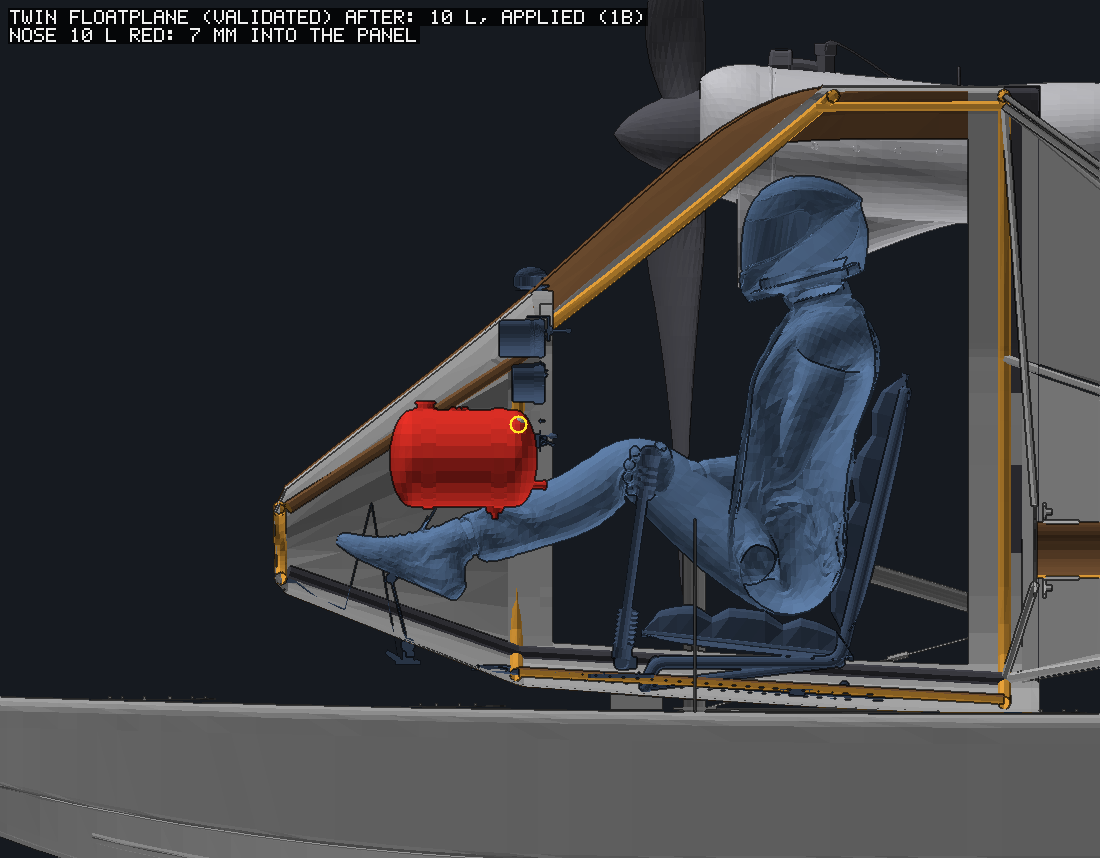
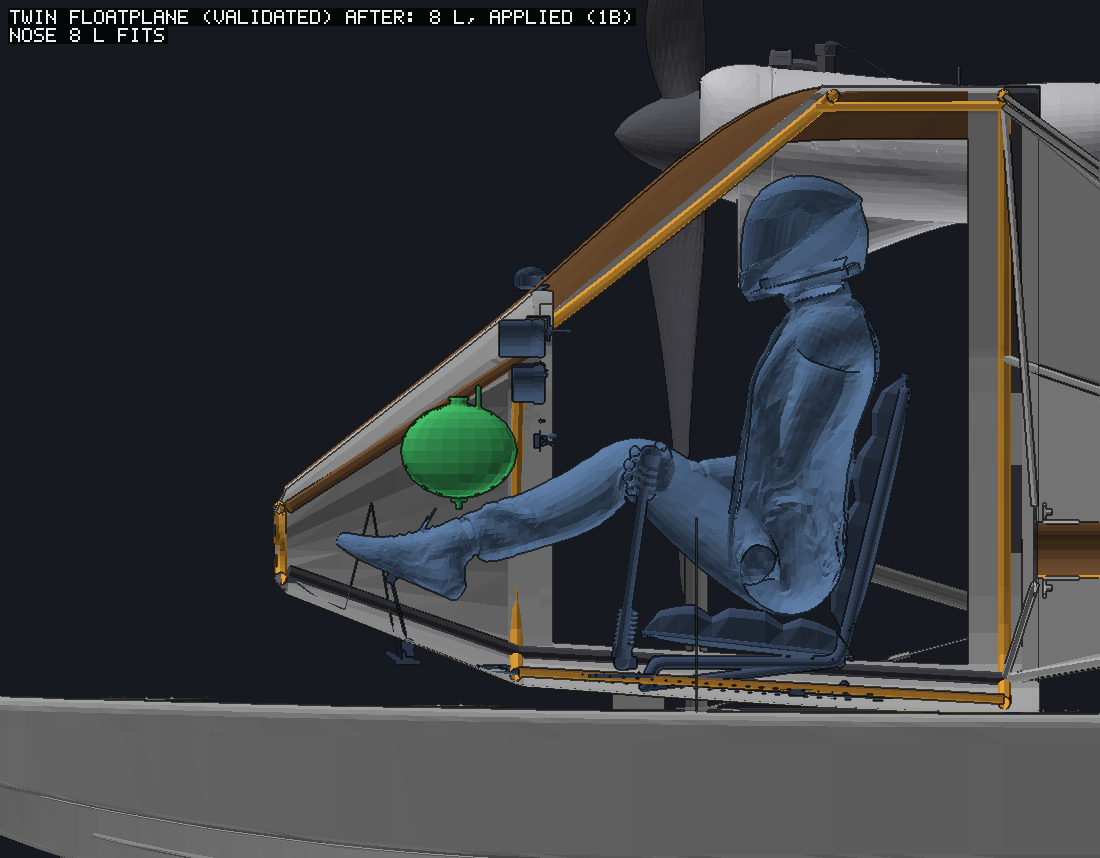
TANK-FIT 11: the twin floatplane's header refit on train 1B is 8 L (the knee fix moved the legs: the 10 L stood 7 mm into the panel there) - the same cylinder at 0.75, turned as saved, 3 cm forward, 5 mm clear
Claude-Session: https://claude.ai/code/session_01RorUqFnYH5e3xLHgf9Znqk

diff --git a/flyDiy/tools/_load_build.js b/flyDiy/tools/_load_build.js
@@ -44,11 +44,12 @@ const VALIDATED = {
     patch: j => { j.spec.gear.type = 'floats'; j.spec.cage = Object.assign({}, j.spec.cage, { gearFloats: 1 });
       // TANK-FIT case D (the user via A0, 3 Nov: the 10 L refit goes in once FLOATS' taxi is fixed - it was the gate's
       // 45 s window, not the sim: tools/_floats_check.js): the header tank stood 25 mm aft of the panel's plane, into a
-      // frame tube (15 mm) and the panel (20 mm); no auto shape fits this open pod (the legs reach the nose). The same
-      // cylinder at 0.8 of its size, 2 cm forward, upright as drawn: 10 L where 19 L could not be (5 mm clear)
+      // frame tube (15 mm) and the panel (20 mm); no auto shape fits this open pod (the legs reach the nose). The largest
+      // that clears on train 1B (the knee fix moved the legs: the 10 L found on PH1A stood 7 mm into the panel there):
+      // the same cylinder at 0.75 of its size, turned as saved, 3 cm forward - 8 L where 19 L could not be (5 mm clear)
       if (j.spec.energy && Array.isArray(j.spec.energy.vessels) && j.spec.energy.vessels[0] && j.spec.energy.vessels[0].bay === 'nose')
-        j.spec.energy.vessels[0] = Object.assign({}, j.spec.energy.vessels[0], { along: -0.094, lv: 0.55, rot: 0, form: 'cyl',
-          dims: { L: 0.304, W: 0.2472, H: 0.2 }, capacity: 10 });
+        j.spec.energy.vessels[0] = Object.assign({}, j.spec.energy.vessels[0], { along: -0.104, lv: 0.6, rot: 90, form: 'cyl',
+          dims: { L: 0.285, W: 0.2318, H: 0.1875 }, capacity: 8 });
       return j; } },
 };
 

diff --git a/flyDiy/reports/evidence/TANK-FIT/STATUS.md b/flyDiy/reports/evidence/TANK-FIT/STATUS.md
@@ -189,7 +189,9 @@ C172 has no nose tank.
 * the saves' nose tanks with no station and no box of their own now take the auto shape by default
   (`window.TANK_NOSE_AUTO_ALL = false` = the old shaping, the A/B);
 * the floatplane card's STOCK_TANKS entry is `fit: 'auto'` (hand-edited: tank_refit_apply.js generated the table);
-* the validated twin floatplane's header tank: **applied, 19 → 10 L** (round 3, A0's T1, the user's answer of 3 Nov
+* the validated twin floatplane's header tank: **applied, 19 → 8 L on train 1B** (10 L on PH1A / F4; on 1B the knee fix
+  moved the legs and the 10 L stood 7 mm into the panel - re-searched: the same cylinder at 0.75 of its size, turned
+  as saved, 3 cm forward, 5 mm clear) (round 3, A0's T1, the user's answer of 3 Nov
   08:40: "the 10 L refit goes in as soon as the FLOATS idle-taxi NaN is fixed"). The NaN was NOT the sim: GATE FLOATS
   flew its landing for a FIXED 45 s and reads the taxi 20 s after the touch - master's touched at 24.90 s (0.1 s
   inside), the refitted aeroplane (6.5 kg lighter) floats longer in the ground effect and touched at 26.38 s, so the
@@ -210,7 +212,7 @@ Every save this changes (the master spec's own tank vs this tree's, on today's c
 | builds/composite_jodel_2026-10-07 | 45 L | 56 L deck | −14.5 / +8.1 mm | 514.4 → 525.4 kg |
 | tools/fixtures/camel_2026-10 | 44 L (red: 61 mm into the engine) | **25 L** deck, fits | +13.3 / −11.5 mm | 716.0 → 696.9 kg (31.7 → 18.0 kg) — **19 L less: flag it** |
 | tools/fixtures/cub_fittings_hand_2026-10, cub_quadwin_2026-10, stol_cub_kit | 28 L | 44 L deck | −20.1..−20.7 / +56..59 mm | +15 kg |
-| validated twin floatplane (its VALIDATED patch, _load_build.js) | 19 L cyl, red | 10 L cyl, fits (5 mm clear), 2 cm forward | the tank's 6.5 kg of fuel less | — |
+| validated twin floatplane (its VALIDATED patch, _load_build.js) | 19 L cyl, red | 8 L cyl, fits (5 mm clear), 3 cm forward (1B) | the tank's 7.9 kg of fuel less | — |
 | every other saved tank (its own place or box) | unchanged | | | |
 
 Screenshots (`refit/`, the simplified renderer tools/tank_shot.js, the near half of the skin cut away):
@@ -262,7 +264,7 @@ Not run: the full tier (ARCHETYPES, PILOTMATRIX, SEAPLANE, HOTHIGH) and the brow
 new rows (auto-fit, the gap and room rows, dragLayout) and the bench's tank rows are untested in a page: a look owed.
 
 ## Round 3 (A0, the user's answers of 3 Nov 08:40)
-* T1 the twin floatplane's 10 L: applied (above); GATE FLOATS' landing flies until its taxi is read (a gate fix, not
+* T1 the twin floatplane's refit: applied - 8 L on 1B (the 10 L no longer clears after the knee fix; above); GATE FLOATS' landing flies until its taxi is read (a gate fix, not
   the sim: nothing in the core).
 * T2 the camel fixture's 25 L: accepted. T3: 10 cm of instrument cases everywhere (NOSE_CASE_DEPTH, unchanged).
 * T4 THE FIRST SHAPING OFF THE MAIN THREAD (the phone): sliced, not a Worker (the shaping asks this thread's own
